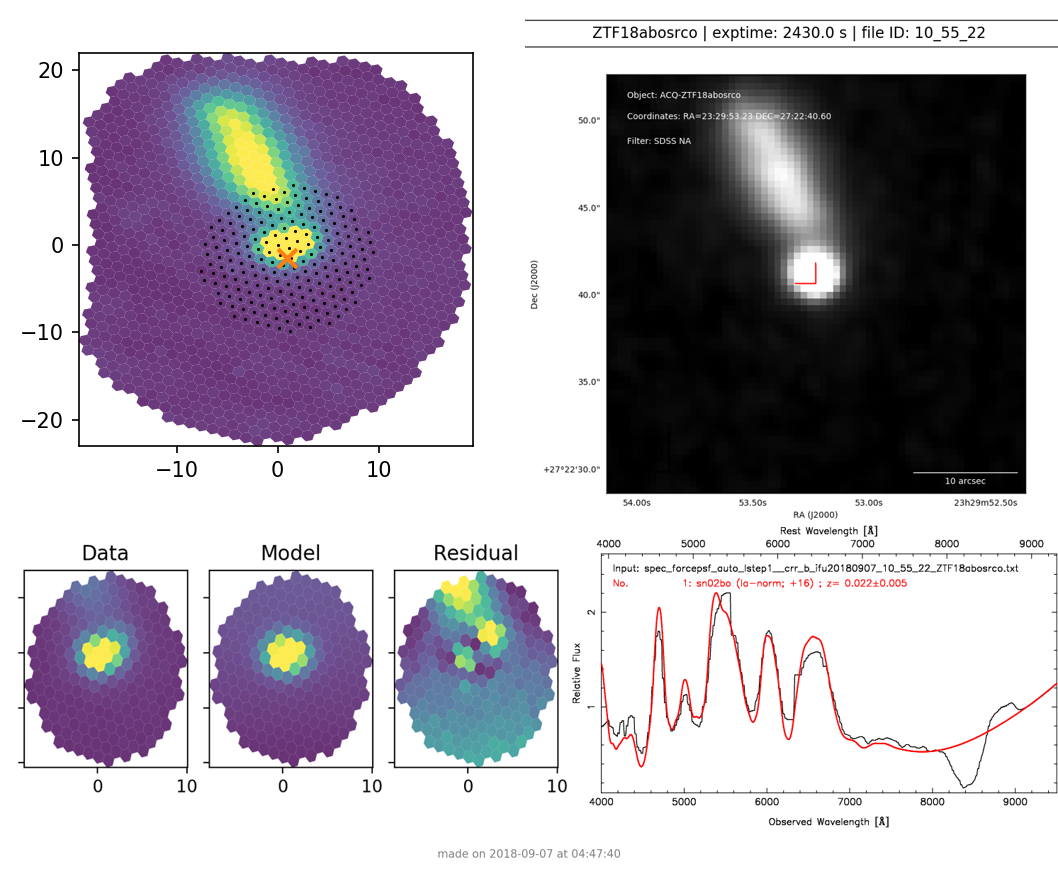
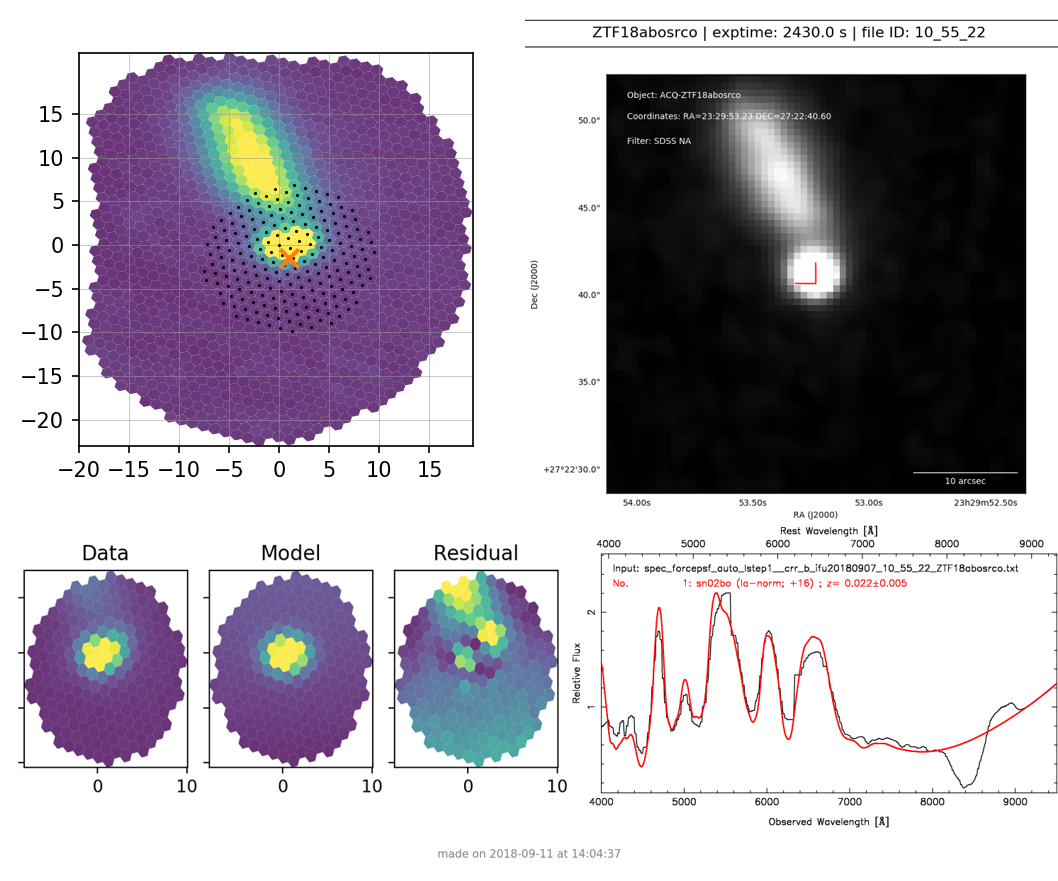
added more plots of interactive pipeline procedures and updated documentation of pipeline

diff --git a/source/conf.py b/source/conf.py
@@ -61,7 +61,7 @@ author = u'Nick Konidaris/Don Neill'
 # built documents.
 #
 # The short X.Y version.
-version = '07 Sep 2018'
+version = '11 Sep 2018'
 # The full version, including alpha/beta/rc tags.
 release = version
 

diff --git a/source/Pipeline.rst b/source/Pipeline.rst
@@ -20,7 +20,7 @@ __ http://skipper.caltech.edu:8080/cgi-bin/growth/marshal.cgi
 
 If there is a failure of the WCS solution, or if the target is particularly
 difficult to model with a PSF, there are ways to re-extract the spectrum.
-This will described in more detail below.
+This will be described in more detail below.
 
 Python Requirements
 ^^^^^^^^^^^^^^^^^^^
@@ -51,13 +51,27 @@ to complete.  In the afternoon when the UT date changes, the following
 steps are automatically performed:
 
 #. The appropriate reduced directory is created using the UT date:
-    * ``/scr2/sedmdrp/redux/20180823`` (e.g.)
+    * ``/scr2/sedmdrp/redux/20180907`` (e.g.)
 #. The required raw calibration files are linked into the directory as they are taken.
 #. Once all the bias files are acquired the master biases are generated.
 #. All subsequent calibration files are linked into the directory and then bias-subtracted and cosmic ray cleaned.
-#. Once all the calibration files are acquired a geometry solution is generated.
+#. Once all the calibration files are acquired a geometry solution and flat field is generated.
 #. If there is a failure in the geometry solution, geometry files from previous runs are linked in.
-#. The most recent fluxcal fits file is linked in.
+#. The most recent fluxcal fits file is linked in, usually from the previous night.
+
+You can verify the success of the geometry solution and flat field by looking
+at the plots generated when they are produced.  One is the wavelength solution
+dispersion and the other is the flat field.  They will be in the reduced
+directory and have names that start with the UT date string (20180907, e.g.).
+
+.. figure:: 20180907_wavesolution_dispersionmap.png
+
+    Figure 1. Wavelength solution dispersion in Angstroms (20180907_wavesolution_dispersionmap.png).
+
+.. figure:: 20180907_flat3d.png
+
+    Figure 2. Flat field (20180907_flat3d.png).
+
 
 Science Processing
 ^^^^^^^^^^^^^^^^^^
@@ -72,17 +86,17 @@ automatically performed:
 #. If the target is a standard star:
         a) no guider image is generated.
         b) the brightest spaxel is used to define the extraction region.
-        c) a new fluxcal fits file is generated.
+        c) PSF-forced spectro-photometry is performed.
+        d) a fluxcal fits file is generated.
 #. If the target is a science object:
-        a) a guider image is generated from all the guider frames.
-        b) the WCS is solved for the guider image
-        c) an extraction region in the IFU is based on the guider WCS and the target coordinates.
-        d) PSF-forced photometry is performed.
-        e) the nearest fluxcal file is used to calibrate the science target.
-        f) the telluric absorption is corrected.
-        g) the resulting spectrum is classified using SNID
-        h) the SNID results are put in the ascii spectrum header.
-        i) the extraction is recorded in a file called ``report.txt``
+        a) a guider image is generated from all the guider frames and the WCS is solved.
+        b) an extraction region in the IFU is based on the guider WCS and the target coordinates.
+        c) PSF-forced spectro-photometry is performed.
+        d) the most recent fluxcal file is used to calibrate the science target.
+        e) the telluric absorption is corrected based on header AIRMASS.
+        f) the resulting spectrum is classified using SNID
+        g) the SNID results are put in the ascii spectrum header.
+        h) the extraction is recorded in a file called ``report.txt``
 #. If the target is a ZTF object:
         a) the spectrum is uploaded to the growth marshal.
         b) the marshal URL is recorded in the file ``report_ztf.txt``
@@ -103,7 +117,7 @@ layout of the main desktop screen connected through the VNC connection.
 
 .. figure:: PharosSEDMdesktopNew.png
 
-    Figure 1. Pharos sedmdrp desktop on screen 7 (5907).
+    Figure 3. Pharos sedmdrp desktop on screen 7 (5907).
 
 The automatic pipeline script is running in the bottom right xterm window.  Some
 status information can be gleaned from the output there.  The xterm set on
@@ -127,31 +141,31 @@ of them using the ``display`` command from ImageMagick like this:
 
 ``display verify_*.png &``
 
-Figures 2 - 4 show the three types of verification plots.  For all three types,
+Figures 4 - 6 show the three types of verification plots.  For all three types,
 the acquisition finder chart is shown in the upper right and
 the IFU spaxel plot is in the upper left.  The PSF extraction results are shown
 in the lower left in three plots showing the Data, Model, and Residual.
 Finally, in the lower right, is shown some form of the extracted spectrum.  For
 a standard star, it will show the calibration check plot comparing the
-reference spectrum to the observed spectrum (see Figure 2).
+reference spectrum to the observed spectrum (see Figure 4).
 
 .. figure:: verify_forcepsf_auto_lstep1__crr_b_ifu20180907_03_03_14_STD-BD+33d2642.png
 
-    Figure 2. Verification plot for standard star BD+33d2642
+    Figure 4. Verification plot for standard star BD+33d2642
 
 For a science target that has a successful classification from SNID, it will
-show the SNID template match plot (see Figure 3).
+show the SNID template match plot (see Figure 5).
 
 .. figure:: verify_forcepsf_auto_lstep1__crr_b_ifu20180907_10_55_22_ZTF18abosrco.png
 
-    Figure 3. Verification plot for successfully typed science target ZTF18abosrco
+    Figure 5. Verification plot for successfully typed science target ZTF18abosrco
 
 For a science target for which SNID fails to find a classification, it will
-show only the extracted spectrum (see Figure 4).
+show only the extracted spectrum (see Figure 6).
 
 .. figure:: verify_forcepsf_auto_lstep1__crr_b_ifu20180907_11_38_04_ZTF18absqitc.png
 
-    Figure 4. Verification plot for unsuccessfuly typed science target ZTF18absqitc
+    Figure 6. Verification plot for unsuccessfuly typed science target ZTF18absqitc
 
 The first step of verification is to compare the B&W finder (upper right) with
 the IFU extraction region (upper left).  The red right-angle in the B&W finder
@@ -175,31 +189,33 @@ source of finder charts for the target.
 Adjustment
 ^^^^^^^^^^
 
-There are three types of adjustment that can be made.  The first two will
-completely replace the original spectrum, but will still need to be
-re-classified, re-reported on the slack channel (`pysedm-report`), and
-re-uploaded to the growth marshal (if the target is a ZTF object).  As of now,
-we are only documenting the first two in full.  The third adjustment creates
-new files and requires more bookkeeping and is therefore, not recommended
-unless specifically required.
+There are three types of adjustment that can be made.  The first two types,
+fixing the centroid and adjusting the extraction region, will
+completely replace the original spectrum.  The object adjusted in these two
+ways will still need to be re-classified, re-reported on the slack channel
+(`pysedm-report`), and re-uploaded to the growth marshal (if the target is a
+ZTF object).  The third type of adjustment, using an aperture instead of a psf,
+creates new files and requires more bookkeeping and is therefore, not
+recommended unless specifically required.
 
 
-Fix Centroid
-~~~~~~~~~~~~
+Adjust Centroid
+~~~~~~~~~~~~~~~
 
 This is the simplest adjustment to make.  It will arise in some cases if the WCS
 solution of the guider images failed.  This is indicated in the IFU spaxel plot
-by a red circle instead of a red X.  When the WCS solution fails, the
-extraction is defined by the brightest pixel.  This is fine for standard stars,
-but does not always work for science targets.  Sometimes even successful WCS
-solutions will define the centroid in the wrong place.  Let the finder chart in
-the verification plot and any other finders from the web be your guide.
+when the centroid  is indicated by a red circle instead of a red X.  When the
+WCS solution fails, the extraction is defined by the brightest pixel.  This is
+fine for standard stars, but does not always work for science targets.
+Sometimes even successful WCS solutions will define the centroid in the wrong
+place.  Let the finder chart in the verification plot and any other finders
+from the web be your guide.
 
 It is also possible that a target that is strongly influenced by a neighbor
 (host galaxy, nearby star) can be fixed by just moving the centroid, and hence
 moving the extraction region, off of the offending neighbor.
 
-To make this adjustment, you simply need to pass the fixed centroid to the
+To make this adjustment, you simply need to pass the new centroid to the
 `extract_star.py` program.  Use the IFU spaxel plot to determine the new
 centroid for the target.  Then enter the command:
 
@@ -212,7 +228,7 @@ replaced by the correct centroid values as determined from the IFU spaxel plot.
 Integer values are usually accurate enough for the new centroid.  Here is an
 example:
 
-``extract_star.py 20180907 --auto 10_11_12 --autobins 6 --centroid -3 7``.
+``extract_star.py 20180907 --auto 10_55_22 --autobins 6 --centroid 0 -5``.
 
 This will completely replace the spectrum file for the object and re-generate
 the plots.  You will want to display the new plots.  Find the appropriate
@@ -222,14 +238,22 @@ wanted.  You can also check the extracted spectrum in the same way.  Find the
 spectrum plot file (starts with ``spec_forcepsf_`` and ends with ``.png``) and
 display it.  As a final check, you can display the new IFU spaxel plot (starts
 with ``ifu_spaxels_`` and ends with ``.png``).  This plot will now have a black
-X where your adjusted centroid falls on the spaxels.
+cross where your adjusted centroid falls on the spaxels.
+
+.. figure:: ifu_spaxels_source_forcepsf_auto_lstep1__crr_b_ifu20180907_10_55_22_ZTF18abosrco.png
+
+    Figure 7. Adjusted centroid indicated by black cross.
 
 It is fine to tweak the centroid and re-extract the spectrum more than once.
 It's important to get a good extraction and this sometimes takes more than
 one adjustment to the centroid.
 
-Fix Extraction Region
-~~~~~~~~~~~~~~~~~~~~~
+*NOTE*: there is nothing in the verification plot for this object to indicate
+that it needs adjustment.  This was done just to demonstrate the procedure.
+
+
+Adjust Extraction Region
+~~~~~~~~~~~~~~~~~~~~~~~~
 
 This is also a fairly easy adjustment to make.  If the extraction region
 includes a neighbor that strongly influences the psf model, and just moving
@@ -240,27 +264,43 @@ command:
 ``extract_star.py <UTdate> --auto <timestr> --autobins 6 --display``,
 
 which will bring up a display window showing the IFU spaxel plot with the
-current centroid indicated.  The left panel is the spectrum in the extraction
 region and the right is the spaxel map where you can re-draw the region.
 
-Just hold down the shift key and draw a region (by left clicking and dragging
+.. figure:: extract_star_with_display.png
+
+    Figure 8. ``extract_star.py`` with the ``--display`` parameter and a hand-drawn extraction region.
+
+Just hit the shift key and draw a region (by left clicking and dragging
 the mouse) around your target that does not include the offending neighbor.
 Once you release the left mouse button, the selected region will be shown on
-the plot.  If you want to try again, hit the <ESC> key, which will reset the
-region, and try again.  Once you are happy with the region, close the plot.
-This is done by using the menu at the upper left corner of the window and
-selecting `Close`.  The extraction will proceed once the window is closed.
+the plot (see Figure 8).  If you want to try again, hit the <ESC> key, which
+will reset the region, and try again.  Once you are happy with the region,
+close the plot.  This is done by using the menu at the upper left corner of
+the window and selecting `Close`.  The extraction will proceed once the window
+is closed.
 
-Here is an example for this command:
+Here is the command that produced Figure 8:
 
-``extract_star.py 20180907 --auto 10_11_12 --autobins 6 --display``.
+``extract_star.py 20180907 --auto 10_55_22 --autobins 6 --display``.
 
 As with fixing the centroid, the spectrum file and all the plots will be
 replaced.  Use the same method described above to verify that your new
 region achieved what you wanted.
 
-Fix Extraction Method
-~~~~~~~~~~~~~~~~~~~~~
+
+Fix A Cosmic Ray
+++++++++++++++++
+
+Using the ``--display`` parameter also allows you to find and avoid spaxels
+that are corrupted by a cosmic ray.  After the extract_star.py command is
+entered, you can click on individual spaxels until you see the one that is
+heavily influenced by the cosmic ray.  Then, hit the shift key and draw your
+extraction region so as to exclude the offending spaxel.  You may have to
+expand the window to more accurately draw the region.
+
+
+Adjust Extraction Method
+~~~~~~~~~~~~~~~~~~~~~~~~
 
 This is a more challenging adjustment to make.  As of now, the two previous
 adjustments seem to be able to fix nearly every situation.  If you need to

diff --git a/source/index.rst b/source/index.rst
@@ -21,14 +21,13 @@ designed to have:
 The hardware project was funded by the NSF with a grant to Caltech.  Many
 people were involved.  Current members of the team are:
 
-- Michael Feeney (Instrument Master)
-- Richard Walters (Telescope/Instrument Operations and Scheduling)
-- Don Neill (Commissioning Scientist, IFU pipeline)
-- Nadejda Blagorodnova (Science results, RCam photometry pipeline)
-- Mickael Rigault (IFU pipeline lead developper, CNRS/IN2P3, France)
-- Chris Cannella (Marshal interface, ATels)
-- Jamey Eriksen (Operations Support at Palomar)
-- Jeff Zolkower (Operations Support at Palomar)
+- Michael Feeney (Instrument Master, Caltech)
+- Richard Walters (Telescope/Instrument Operations and Scheduling, Caltech)
+- Don Neill (Commissioning Scientist, IFU pipeline automation, Caltech)
+- Nadejda Blagorodnova (Science results, RCam photometry pipeline, Caltech)
+- Mickael Rigault (IFU pipeline lead developer, CNRS/IN2P3, France)
+- Jamey Eriksen (Operations Support, Palomar)
+- Jeff Zolkower (Operations Support, Palomar)
 
 Former members, some of whom are still consulted for advice are:
 
@@ -36,6 +35,7 @@ Former members, some of whom are still consulted for advice are:
 - Robert Quimby (Project Scientist)
 - Jack Davis, and Sagi Ben-Ami (Weizmann institute grad students)
 - Karl Vyhmeister (SEDM Database)
+- Chris Cannella (Marshal interface, ATels)
 
 Here we document the instrument for observers and developers.  Observers
 will want to refer to the Observer's Reference below.
